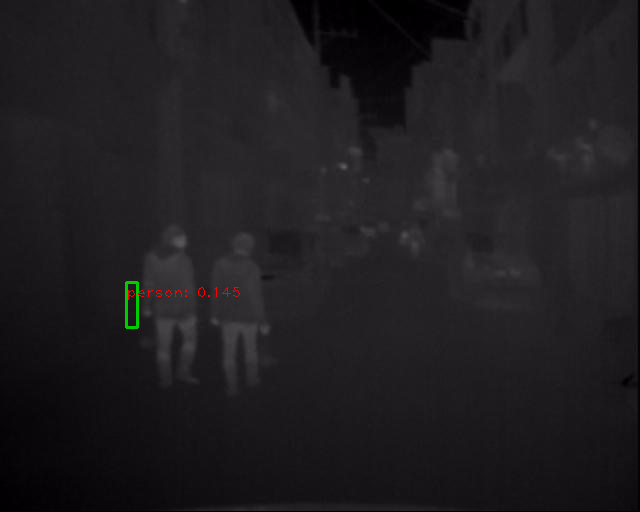
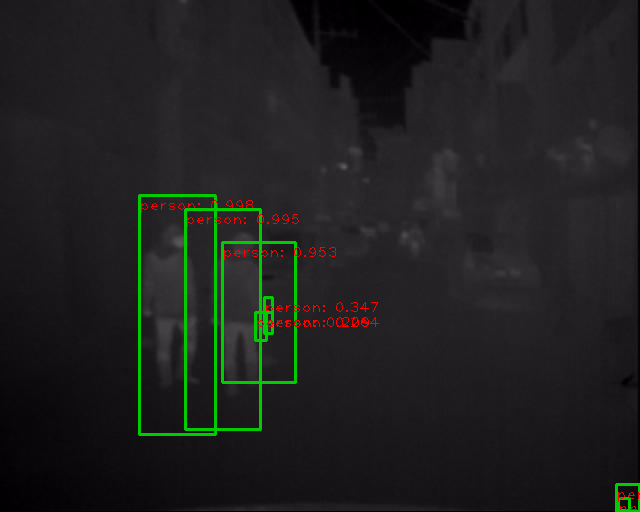
tested with anchor scale=1

Changed region(s): [[0.1875, 0.375, 0.5938, 0.875], [0.9375, 0.9375, 1.0, 1.0], [0.5, 0.4688, 0.5312, 0.5]]

diff --git a/frcnn/trainval_net.py b/frcnn/trainval_net.py
@@ -184,7 +184,7 @@ if __name__ == '__main__':
   elif args.dataset == "kaist":
       args.imdb_name ="train_subset"
       args.imdbval_name = "combined_test"
-      args.set_cfgs = ['ANCHOR_SCALES', '[0.5,1,2,4]', 'ANCHOR_RATIOS', '[0.5, 1, 2]', 'MAX_NUM_GT_BOXES', '30']#scales=[4,8,16,32] ratios = [0.5, 1, 2]--default# [0.05, 0.1, 0.25, 0.5]
+      args.set_cfgs = ['ANCHOR_SCALES', '[1]', 'ANCHOR_RATIOS', '[0.5, 1, 2]', 'MAX_NUM_GT_BOXES', '30']#scales=[4,8,16,32] ratios = [0.5, 1, 2]--default# [0.05, 0.1, 0.25, 0.5]
   
   args.cfg_file = "cfgs/{}_ls.yml".format(args.net) if args.large_scale else "cfgs/{}.yml".format(args.net)
 

diff --git a/frcnn/test_net.py b/frcnn/test_net.py
@@ -126,7 +126,7 @@ if __name__ == '__main__':
   elif args.dataset == "kaist":
       args.imdb_name = "train_subset"
       args.imdbval_name ="train_subset"#change here
-      args.set_cfgs = ['ANCHOR_SCALES', '[0.05, 0.1, 0.25, 0.5]', 'ANCHOR_RATIOS', '[0.5,1,2]', 'MAX_NUM_GT_BOXES', '30']#scales=[4,8,16,32]--default
+      args.set_cfgs = ['ANCHOR_SCALES', '[1]', 'ANCHOR_RATIOS', '[0.5,1,2]', 'MAX_NUM_GT_BOXES', '30']#scales=[4,8,16,32]--default
   
   args.cfg_file = "cfgs/{}_ls.yml".format(args.net) if args.large_scale else "cfgs/{}.yml".format(args.net)
 

diff --git a/frcnn/lib/datasets/kaist_fusion.py b/frcnn/lib/datasets/kaist_fusion.py
@@ -243,7 +243,7 @@ class kaist_thermal(imdb):
             # adjusting for annotation format 
             x2 = x1 + x2
             y2 = y1 + y2
-            
+            print(x1,y1,x2,y2)
             boxes[ix, :] = [x1, y1, x2, y2] #removed -1 from each coordinate
             gt_classes[ix] = cls
             overlaps[ix, cls] = 1.0
